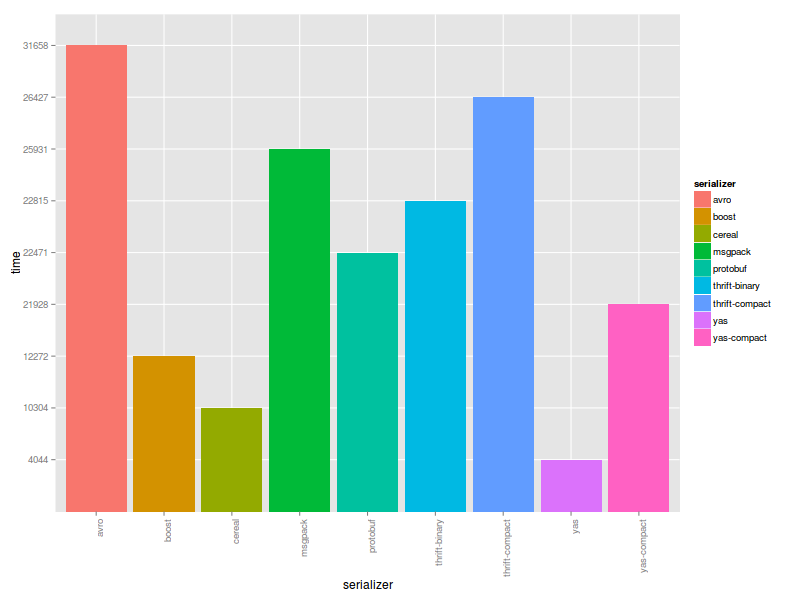
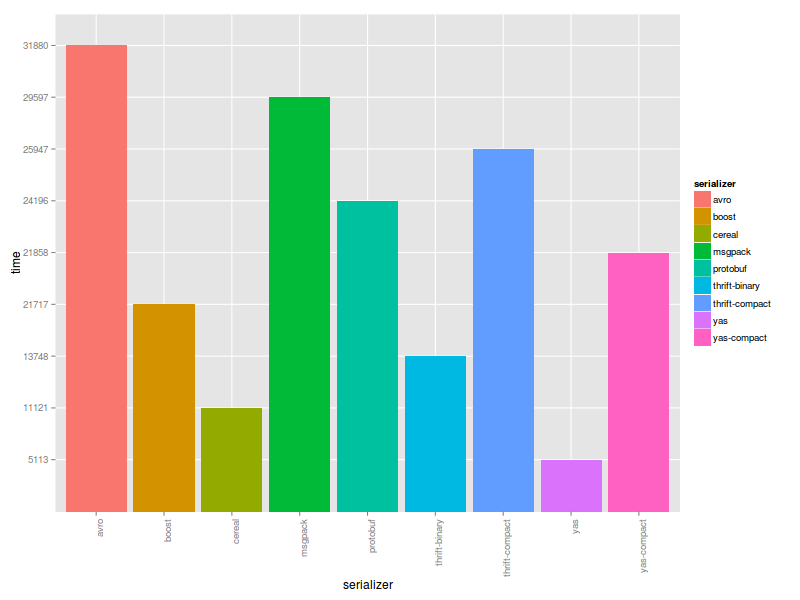
re-tested using ubuntu-14.04.3-x86_64 + gcc-4.8.5 & graphs regenerated

diff --git a/README.md b/README.md
@@ -56,15 +56,15 @@ on a typical desktop computer with Intel Core i5 processor running Ubuntu 14.04.
 
 | serializer     | object's size | avg. total time |
 | -------------- | ------------- | --------------- |
-| thrift-binary  | 17017         | 22815           |
-| thrift-compact | 11597         | 26427           |
-| protobuf       | 12571         | 21034           |
-| boost          | 17470         | 22471           |
-| msgpack        | 11902         | 25931           |
-| cereal         | 17416         | 10304           |
-| avro           | 12288         | 31658           |
-| yas            | 17416         | 4044            |
-| yas-compact    | 12830         | 21928           |
+| thrift-binary  | 17017         | 13748           |
+| thrift-compact | 11597         | 25947           |
+| protobuf       | 12571         | 24196           |
+| boost          | 17470         | 21717           |
+| msgpack        | 11902         | 29597           |
+| cereal         | 17416         | 11121           |
+| avro           | 12288         | 31880           |
+| yas            | 17416         | 5113            |
+| yas-compact    | 12830         | 21858           |
 
 ###### Size
 
@@ -80,8 +80,8 @@ serialize/deserialize cycle of the already built data structure.
 
 | serializer     | object's size | avg. total time |
 | -------------- | ------------- | --------------- |
-| capnproto      | 17768         | 4259            |
-| flatbuffers    | 17632         | 12762           |
+| capnproto      | 17768         | 4460            |
+| flatbuffers    | 17632         | 12755           |
 
 ![Time](images/time2.png)
 
